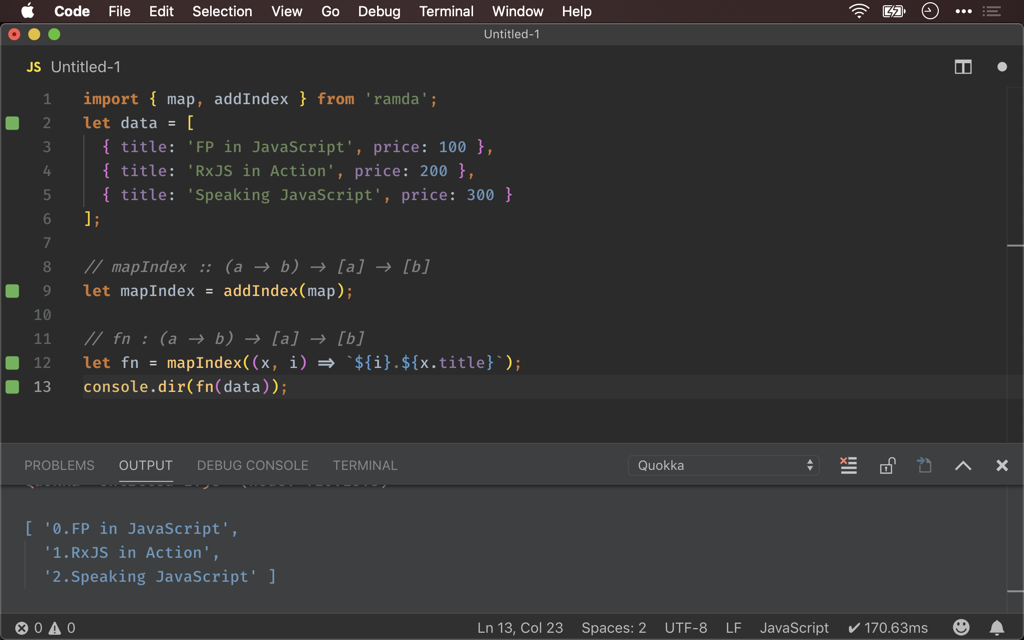
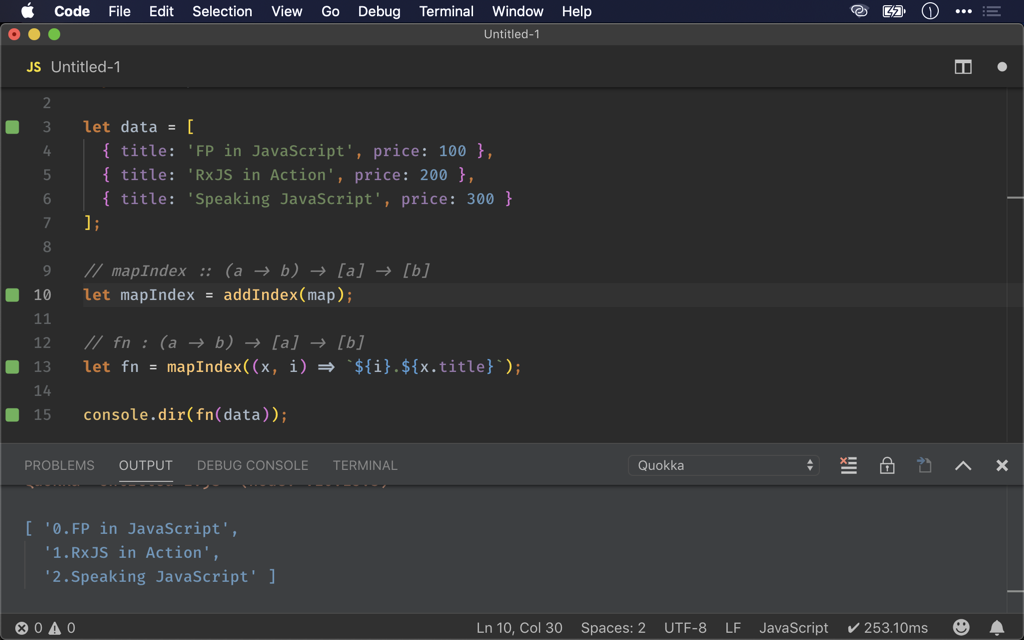
Ramda 之 addIndex()

diff --git a/source/_posts/ramda/addindex.md b/source/_posts/ramda/addindex.md
@@ -27,6 +27,7 @@ let data = [
 
 // fn :: [a] -> [b]
 let fn = arr => arr.map((x, i) => `${i}.${x.title}`);
+
 console.dir(fn(data));
 ```
 
@@ -45,6 +46,7 @@ let fn = arr => arr.map((x, i) => `${i}.${x.title}`);
 
 ```javascript
 import { map, addIndex } from 'ramda';
+
 let data = [
   { title: 'FP in JavaScript', price: 100 },
   { title: 'RxJS in Action', price: 200 },
@@ -56,10 +58,11 @@ let mapIndex = addIndex(map);
 
 // fn : (a -> b) -> [a] -> [b]
 let fn = mapIndex((x, i) => `${i}.${x.title}`);
+
 console.dir(fn(data));
 ```
 
-第 8 行
+第 9 行
 
 ```javascript
 // mapIndex :: (a -> b) -> [a] -> [b]
@@ -98,6 +101,7 @@ let index = pipe(identity, String);
 let fn = mapIndex(useWith(
   flip(concat), [title, index])
 );
+
 console.dir(fn(data));
 ```
 
